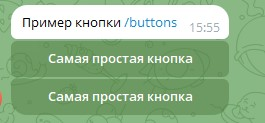
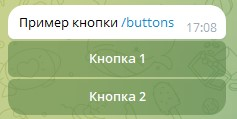
Исправленно описание

diff --git a/README.md b/README.md
@@ -256,10 +256,10 @@ answer находится по этой ссылке http://127.0.0.1:8000/admin
 
 Шаблон ответа: 
 
-`{% set _ = button_kwargs.append([{
-                        "type_b": "i",
-                        "arg_1": "Самая простая кнопка",                       
-                    }]) %}`
+    {% set _ = button_kwargs.append([{
+                            "type_b": "i",
+                            "arg_1": "Самая простая кнопка",                       
+                        }]) %}
 
 
 
@@ -283,11 +283,11 @@ answer находится по этой ссылке http://127.0.0.1:8000/admin
 Вернемся в Аnswer с кнопками и поменяем 
 Шаблон ответа: 
 
-`{% set _ = button_kwargs.append([{
-                        "type_b": "i",
-                        "arg_1": "Самая простая кнопка",
-                        "answer_id": 14
-                    }]) %}`
+    {% set _ = button_kwargs.append([{
+                            "type_b": "i",
+                            "arg_1": "Самая простая кнопка",
+                            "answer_id": 14
+                        }]) %}
 
 В шаблон ответа добавим "answer_id": 14, где 14 номер id записи которую вы создали
 Жмем сохранить, пишем боту /buttons получаем сообщение с кнопкой, нажимаем кнопку и получаем такой результат
@@ -298,7 +298,7 @@ button_kwargs - это список c кнопками такой структу
 
 ![Image alt](https://github.com/plp-kolyan/telegrammapi/raw/master/img/Screenshot_21.jpg)
 
-Нужно отредактировать шаблон ответа вот так: 
+Нужно прописать в шаблон ответа вот так: 
 
     {% set list = [] %}
     {% for number in [1, 2] %}
@@ -309,24 +309,21 @@ button_kwargs - это список c кнопками такой структу
 
 чтобы проверить напишите боту /buttons - команда которую вы указывали в Client messages
 
-Может показаться что кнопки абсолютно одинавы но на самом деле это две обсалютно разные кнопки которые могут нести
-разную полезную нагрузку и django четко понимает по какой из кнопок было нажатие, в jango кнопки можно увидеть в http://127.0.0.1:8000/admin/message/button/
-
 
 для того чтобы каждая кнопка была добавленна в новый ряд
 
 ![Image alt](https://github.com/plp-kolyan/telegrammapi/raw/master/img/Screenshot_22.jpg)
 
-отредактируйте Шаблон ответа 
+Пропишите Шаблон ответа 
 
 
-`{% for number in [1, 2] %}
-        {% set _ = button_kwargs.append([{
-                                    "type_b": "i",
-                                    "arg_1": "Кнопка {number}".format(number=number),                       
-                                }
-        ]) %}
-    {% endfor %}`
+    {% for number in [1, 2] %}
+            {% set _ = button_kwargs.append([{
+                                        "type_b": "i",
+                                        "arg_1": "Кнопка {number}".format(number=number),                       
+                                    }
+            ]) %}
+        {% endfor %}
 
 Добавить выбор к кнопке при нажатии
 
